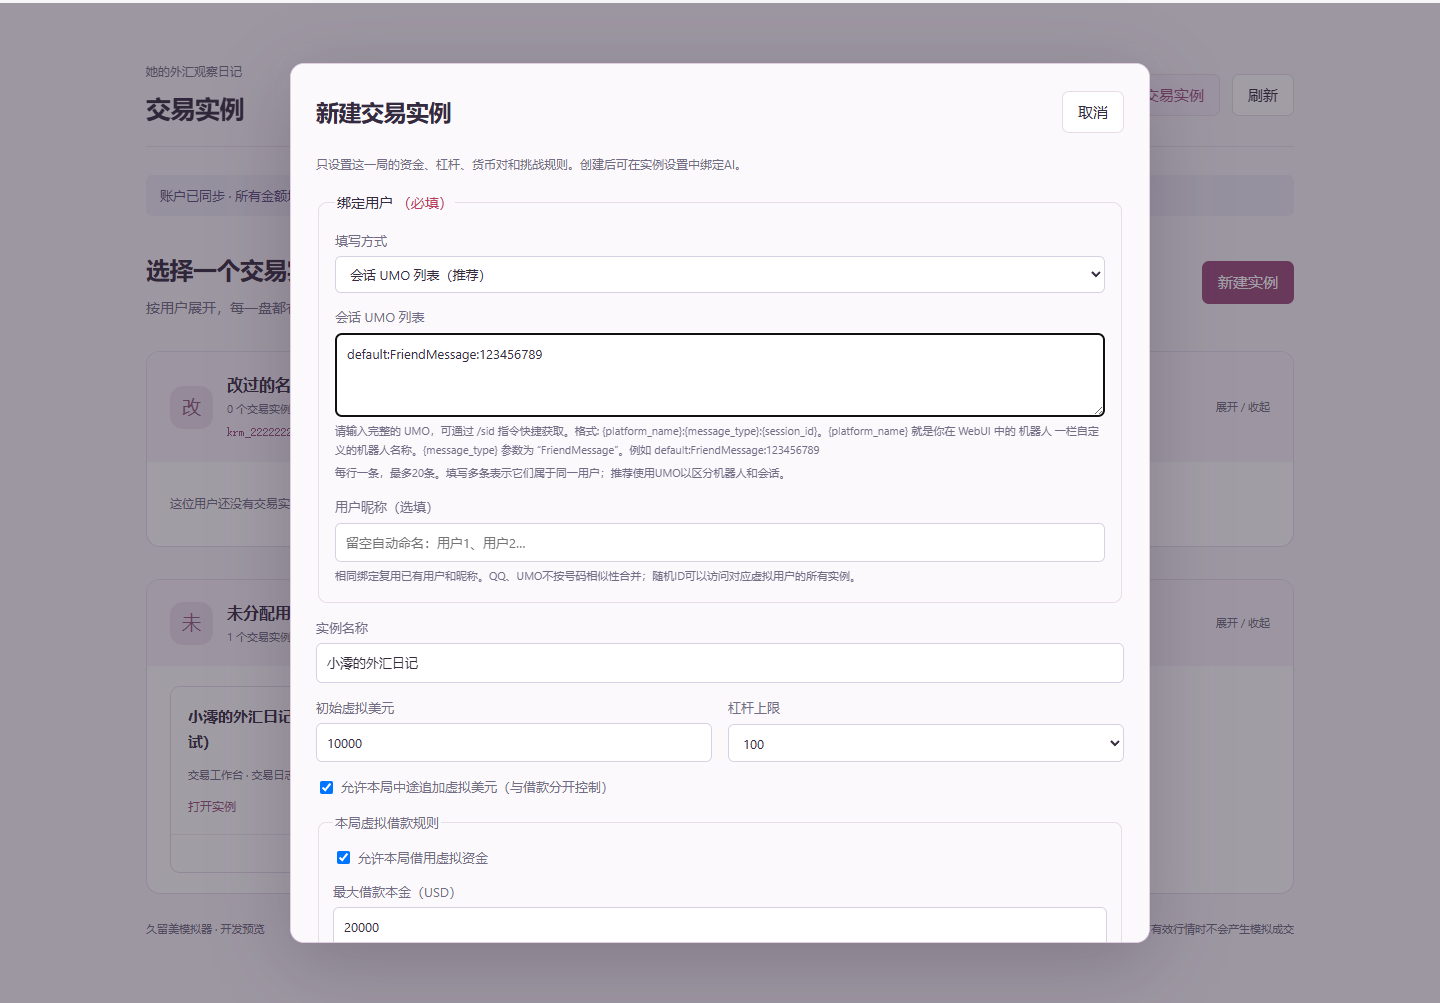
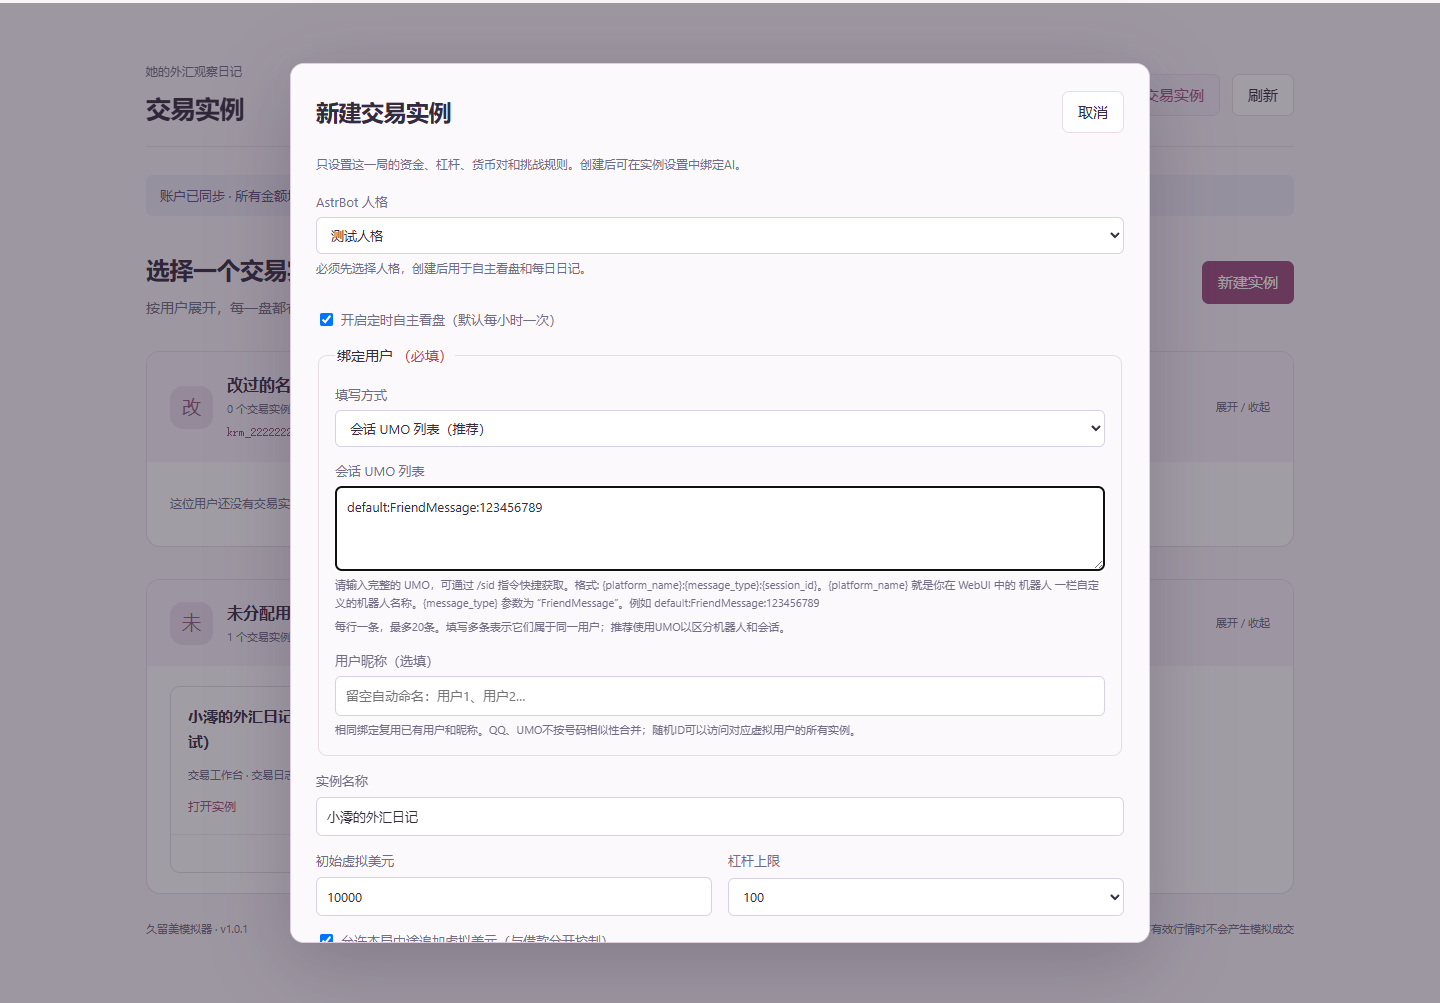
Require a persona and enable scheduled reviews for new instances

diff --git a/views/dashboard/index.html b/views/dashboard/index.html
@@ -623,6 +623,11 @@
           只设置这一局的资金、杠杆、货币对和挑战规则。创建后可在实例设置中绑定AI。
         </p>
         <form id="create">
+          <label>AstrBot 人格<select id="create-persona" name="persona" required>
+            <option value="">请选择人格</option>
+          </select><span class="caption">必须先选择人格，创建后用于自主看盘和每日日记。</span></label>
+          <label class="check"><input id="create-auto" name="auto" type="checkbox" checked />开启定时自主看盘（默认每小时一次）</label>
+
           <fieldset class="user-binding-fields">
             <legend>
               绑定用户 <span class="required-mark">（必填）</span>

diff --git a/views/dashboard/required-fields.js b/views/dashboard/required-fields.js
@@ -1,7 +1,7 @@
 // Required cues reflect empty values, including dynamically rendered settings.
 const markers = new WeakMap();
 export function refreshRequired() {
-  for (const field of document.querySelectorAll('[data-page="setup"] input, [data-page="setup"] select, [data-page="setup"] textarea, #binding input, #binding select, #instance-notifications input')) {
+  for (const field of document.querySelectorAll('[data-page="setup"] input, [data-page="setup"] select, [data-page="setup"] textarea, #create select, #binding input, #binding select, #instance-notifications input')) {
     const label = field.closest("label");
     if (!label) continue;
     let mark = markers.get(field);

diff --git a/views/dashboard/app.js b/views/dashboard/app.js
@@ -824,6 +824,8 @@ submit("create", async (p) => {
     action: "create",
     options: {
       name: p.name,
+      persona: p.persona,
+      auto: $("create-auto").checked,
       user_binding: collectUserBinding(p),
       user_nickname: p.user_nickname || "",
       initial: p.initial,
@@ -945,6 +947,8 @@ $("confirm-rotate-user").onclick = async () => {
   } catch {}
 };
 function openCreateInstance() {
+  options($("create-persona"), [{ id: "", name: "请选择人格" }, ...(state?.personas || [])], "");
+  $("create-auto").checked = true;
   $("create-instance-dialog").showModal();
   tradingNotices.setScope("");
 }

diff --git a/src/integration/plugin.py b/src/integration/plugin.py
@@ -213,6 +213,16 @@ class KurumiMixin(DiaryApiMixin, SettingsApiMixin):
             )
         )
 
+    async def validate_persona(self, persona):
+        if not isinstance(persona, str) or not persona.strip():
+            raise ValueError("请选择 AstrBot 人格后再开始游戏")
+        persona = persona.strip()
+        if not any(p.persona_id == persona for p in self.context.persona_manager.personas):
+            raise ValueError("所选人格不存在，请重新选择")
+        if not await self.context.persona_manager.get_persona(persona):
+            raise ValueError("所选人格不存在，请重新选择")
+        return persona
+
     async def web_command(self):
         if not self.authorized():
             return error_response("需要 AstrBot 登录", status_code=401)
@@ -228,6 +238,13 @@ class KurumiMixin(DiaryApiMixin, SettingsApiMixin):
                     raise ValueError(
                         "绑定用户为必填，请填写QQ号、完整会话UMO列表或选择随机用户ID"
                     )
+                options = dict(options)
+                options["persona"] = await self.validate_persona(options.get("persona"))
+                options.setdefault("auto", True)
+                if type(options["auto"]) is not bool:
+                    raise ValueError("定时看盘开关须为布尔值")
+                if options["auto"]:
+                    llm.ensure_available(self, options)
                 return json_response(self.engine.create(options))
             if body.get("action") == "create_user":
                 return json_response(
@@ -262,8 +279,8 @@ class KurumiMixin(DiaryApiMixin, SettingsApiMixin):
             if body.get("action") == "bind":
                 game = self.engine.get(body["game"])
                 provider, persona = (
-                    str(body.get("provider", "")),
-                    str(body.get("persona", "")),
+                    str(body.get("provider", game.get("provider", ""))),
+                    body.get("persona", game.get("persona", "")),
                 )
                 if (
                     llm.settings(self.settings().get("llm"))["mode"] == "platform"
@@ -271,8 +288,7 @@ class KurumiMixin(DiaryApiMixin, SettingsApiMixin):
                     and not self.context.get_provider_by_id(provider)
                 ):
                     raise ValueError("模型不存在")
-                if persona:
-                    await self.context.persona_manager.get_persona(persona)
+                persona = await self.validate_persona(persona)
                 access = policy.effective(self.engine, game)
                 interval = int(body.get("interval", access["effective_interval"]))
                 if (

diff --git a/tests/runtime_check.py b/tests/runtime_check.py
@@ -29,7 +29,7 @@ registered_tools = []
 context = SimpleNamespace(
     get_all_providers=lambda: [],
     get_provider_by_id=lambda pid: SimpleNamespace() if pid=="test" else None,
-    persona_manager=SimpleNamespace(personas=[]),
+    persona_manager=SimpleNamespace(personas=[SimpleNamespace(persona_id="test")], get_persona=AsyncMock(return_value=SimpleNamespace(persona_id="test"))),
     register_web_api=lambda *args: routes.append(args),
     add_llm_tools=lambda *tools: registered_tools.extend(tools),
 )
@@ -186,11 +186,21 @@ async def check():
         assert response.status_code == expected
     response = await post(plugin.web_command, {"action": "create", "options": {}})
     assert response.status_code == 400
+    # Missing/unknown personas must fail without creating games or users.
+    before_games = len(plugin.engine.games())
+    for persona in (None, "", "deleted-persona"):
+        invalid = await post(plugin.web_command, {"action": "create", "options": {"user_binding": {"type": "random", "values": []}, "persona": persona}})
+        assert invalid.status_code == 400
+    assert len(plugin.engine.games()) == before_games
+    values = plugin.settings()
+    values["llm"] = {"mode": "platform", "provider_id": "test"}
+    plugin.engine.db.execute("UPDATE settings SET data=? WHERE id=1", (json.dumps(values),))
     response = await post(
         plugin.web_command,
         {
             "action": "create",
             "options": {
+                "persona": "test",
                 "user_binding": {
                     "type": "random",
                     "values": [],
@@ -200,6 +210,9 @@ async def check():
     )
     assert response.status_code == 200
     owned = json.loads(response.body)
+    assert owned["auto"] is True and owned["persona"] == "test"
+    invalid = await post(plugin.web_command, {"action": "bind", "game": owned["id"], "persona": "", "auto": False})
+    assert invalid.status_code == 400
     # An instance request cannot bypass the administrator-owned interval lock.
     denied_interval=await post(plugin.web_command,{"action":"bind","game":owned["id"],"interval":7200})
     assert denied_interval.status_code==400

diff --git a/tests/smoke_view.py b/tests/smoke_view.py
@@ -261,6 +261,10 @@ with sync_playwright() as p:
     page.get_by_role("button", name="新建实例", exact=True).click()
     page.wait_for_selector("#create-instance-dialog[open]")
     assert page.locator("#create").is_visible()
+    assert page.locator("#create-auto").is_checked()
+    assert page.locator("#create-persona").input_value() == ""
+    assert page.locator("#create-persona").get_attribute("required") is not None
+    page.locator("#create-persona").select_option("test")
     assert page.locator("#user-binding-type").input_value() == "umo"
     assert page.locator("#bound-umos").get_attribute("required") is not None
     assert "/sid" in page.locator("[data-binding-kind=umo]").inner_text()
@@ -310,6 +314,7 @@ with sync_playwright() as p:
     for kind, value in [("qq", "123456789"), ("random", "")]:
         page.locator("#back-to-catalog").click()
         page.get_by_role("button", name="新建实例", exact=True).click()
+        page.locator("#create-persona").select_option("test")
         page.locator("#user-binding-type").select_option(kind)
         if kind == "qq":
             page.locator("#bound-qq").fill(value)

diff --git a/src/core/engine.py b/src/core/engine.py
@@ -160,9 +160,9 @@ class Engine:
             orders=[],
             rules=rules,
             status="running",
-            auto=False,
-            provider="",
-            persona="",
+            auto=options.get("auto", False),
+            provider=str(options.get("provider", "")),
+            persona=str(options.get("persona", "")).strip(),
             umo="",
             interval=3600,
             last_decision=0,

diff --git a/README.md b/README.md
@@ -35,7 +35,7 @@ AstrBot插件视图内提供交易工作台、交易日志、计划与经验。K
 2. 确认依赖安装完成，加载插件后打开插件的交易面板。
 3. 在「设置 → API与行情连接」选择行情源和LLM；平台模型需手动选择，也可填写支持工具调用的OpenAI兼容接口。
 4. 创建虚拟用户和交易实例，绑定QQ、完整私聊UMO或管理员生成的随机ID。
-5. 在实例设置选择人格、授权主参考会话，按需开启定时看盘。
+5. 新建实例时必须选择有效的 AstrBot 人格；定时看盘默认开启，默认每小时一次（以管理员间隔设置为准）。需要参考聊天时，再在实例设置授权主参考会话。
 
 通过随机ID识别时，用户将管理员发放的ID交给LLM，每次工具调用都携带user_id。QQ/UMO绑定使用框架提供的可信会话身份。需要关联主参考私聊时，可先在该私聊通过交易工具选择实例。
 
